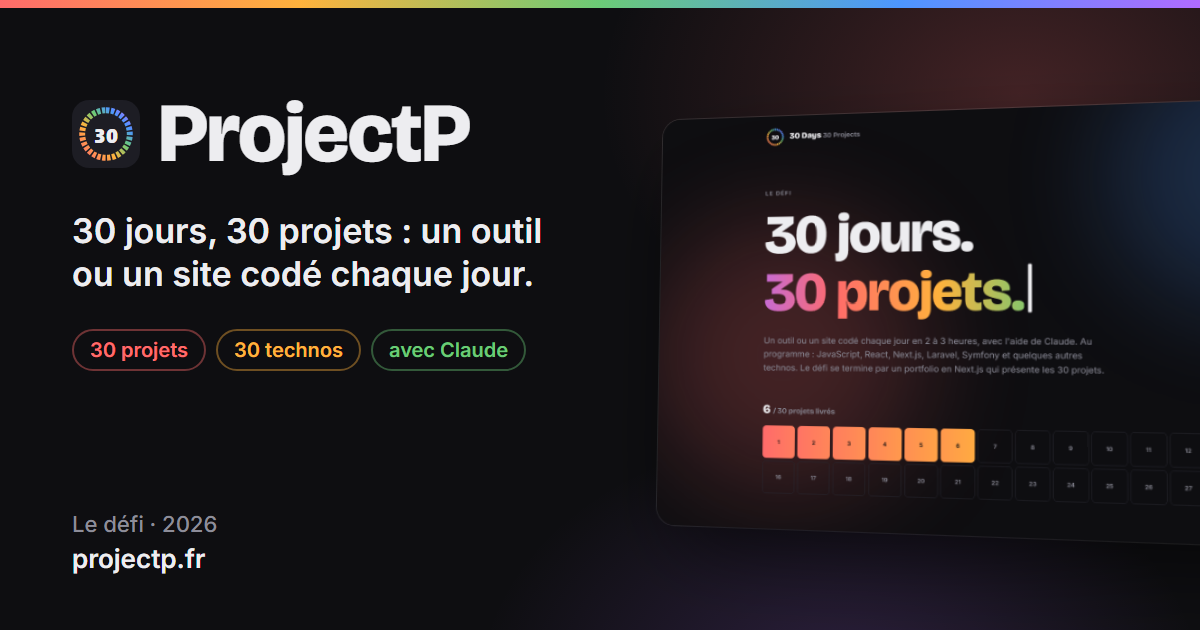
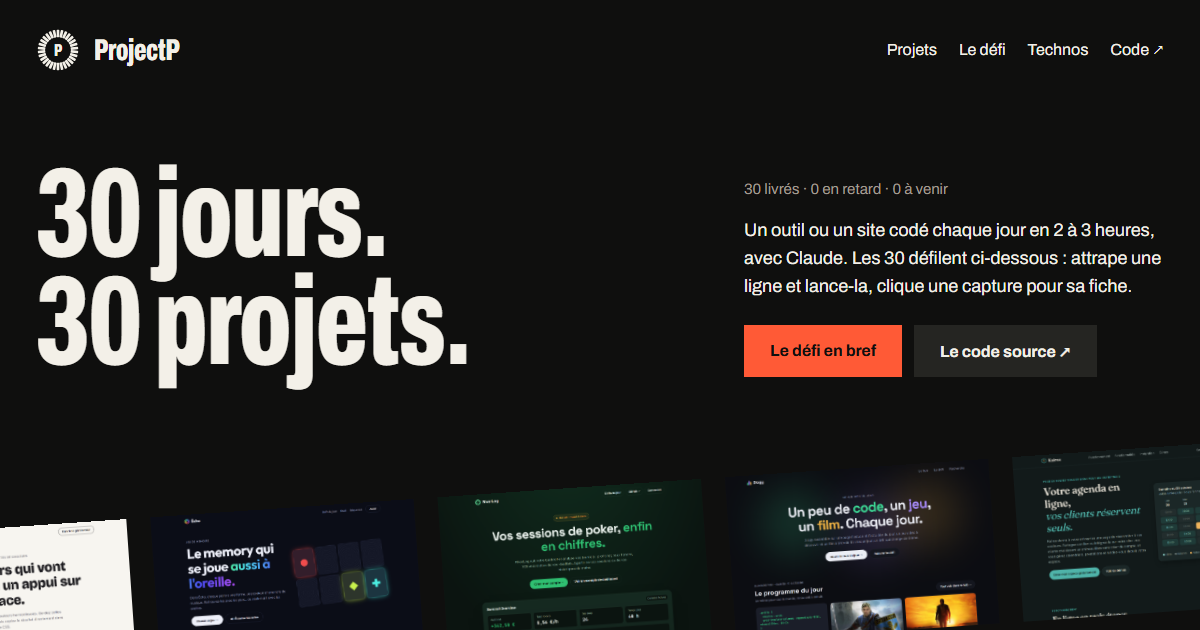
style(vitrine): mise en page mobile et captures du README
- Mobile : en-tête réduit, mur à plat, filtres sur une ligne, chiffres en rangée, technos en deux colonnes, fiche qui monte du bas
- Espace entre titres de section et texte
- docs/preview.png et docs/og.png refaits sur le nouveau site

diff --git a/style.css b/style.css
@@ -58,7 +58,8 @@ a:hover { color: var(--red); }
   font-size: 20px;
   max-width: 620px;
 }
-.lead.narrow { max-width: 560px; margin-top: 16px; }
+.lead.narrow { max-width: 560px; }
+.h2 + .lead { margin-top: 20px; }
 
 .skip {
   position: absolute;
@@ -594,16 +595,86 @@ dialog[open] .sheet { animation: rise 0.5s cubic-bezier(0.2, 0.8, 0.2, 1) both; 
 
 /* ---------- Téléphone ---------- */
 
+/* Sur téléphone : une seule chose à la fois, rien qui déborde, tout à portée de pouce */
 @media (max-width: 640px) {
   body { font-size: 17px; }
-  .top-nav a:nth-child(2) { display: none; }
-  .wall { transform: rotate(-3deg); padding-block: 32px; }
-  .card { width: 220px; }
-  .cap-name { font-size: 26px; }
-  .cap-day { font-size: 26px; }
-  .stats dd { font-size: 48px; }
-  .track { gap: 16px; }
-  .lane { padding-block: 14px; }
+  .lead { font-size: 18px; }
+  .h2 { font-size: 48px; }
+
+  /* En-tête : le logo et le lien vers le code, les sections se trouvent en défilant */
+  .top { padding-block: 20px; }
+  .brand-name { font-size: 26px; }
+  .gauge { width: 38px; height: 38px; }
+  .top-nav a:not(:last-child) { display: none; }
+
+  .hero { padding-block: 24px 80px; }
+  .hero-head { gap: 24px; }
+  .hero-title { font-size: clamp(64px, 21vw, 96px); }
+  .hero-actions { display: grid; grid-template-columns: 1fr 1fr; gap: 10px; }
+  .hero-actions .btn { justify-content: center; padding: 0 12px; text-align: center; }
+
+  /* Mur à plat, trois lignes de captures, la ligne des noms laissée au grand écran */
+  .wall-clip { margin-top: 32px; }
+  .wall { width: 100%; margin-left: 0; transform: none; padding-block: 0; gap: 4px; }
+  .lane-names { display: none; }
+  .lane { padding-block: 10px; }
+  .track { gap: 14px; }
+  .card { width: 72vw; max-width: 280px; }
+  .card:hover { transform: none; }
+  .cap { padding-top: 10px; }
+  .cap-name, .cap-day { font-size: 24px; }
+
+  /* Filtres sur une seule ligne qu'on fait glisser */
+  .wall-tools { margin-top: 16px; gap: 12px; }
+  .wall-hint { display: none; }
+  .filters {
+    flex-wrap: nowrap;
+    overflow-x: auto;
+    width: calc(100% + 2 * var(--gutter));
+    margin-inline: calc(-1 * var(--gutter));
+    padding-inline: var(--gutter);
+    scrollbar-width: none;
+  }
+  .filters::-webkit-scrollbar { display: none; }
+  .filter { flex: none; }
+  .pause { padding: 0; }
+
+  /* Chiffres : une rangée de trois */
+  .numbers { padding-bottom: 80px; }
+  .stats { display: grid; grid-template-columns: repeat(3, minmax(0, 1fr)); gap: 8px; margin-top: 24px; }
+  .stats > div { padding: 16px 14px; }
+  .stats dt { font-size: 13px; line-height: 1.3; }
+  .stats dd { font-size: 34px; }
+
+  .split { gap: 28px; padding-bottom: 80px; }
+  .rules { gap: 10px; }
+  .rules li { padding: 20px; font-size: 16px; }
+  .rules strong { font-size: 26px; }
+
+  /* Technos : liste compacte sur deux colonnes */
+  #technos { padding-bottom: 80px; }
+  .tech-list { display: grid; grid-template-columns: repeat(2, minmax(0, 1fr)); gap: 6px; margin-top: 24px; }
+  .tech { justify-content: space-between; min-height: 42px; padding: 0 14px; font-size: 15px; }
+  .tech span:first-child { overflow: hidden; text-overflow: ellipsis; white-space: nowrap; }
+
+  .footer { padding-block: 40px 32px; }
+
+  /* Fiche : une feuille qui monte du bas, pleine largeur */
+  dialog {
+    width: 100%;
+    max-width: 100%;
+    max-height: 92dvh;
+    margin: auto 0 0;
+  }
+  dialog[open] .sheet { animation: sheet-up 0.4s cubic-bezier(0.2, 0.8, 0.2, 1) both; }
+  .sheet-text { padding: 24px 20px 32px; }
+  .sheet-actions { display: grid; grid-template-columns: 1fr 1fr; }
+  .sheet-actions .btn { justify-content: center; }
+}
+
+@keyframes sheet-up {
+  from { transform: translateY(40px); opacity: 0; }
+  to { transform: none; opacity: 1; }
 }
 
 /* ---------- Mouvement réduit ---------- */
